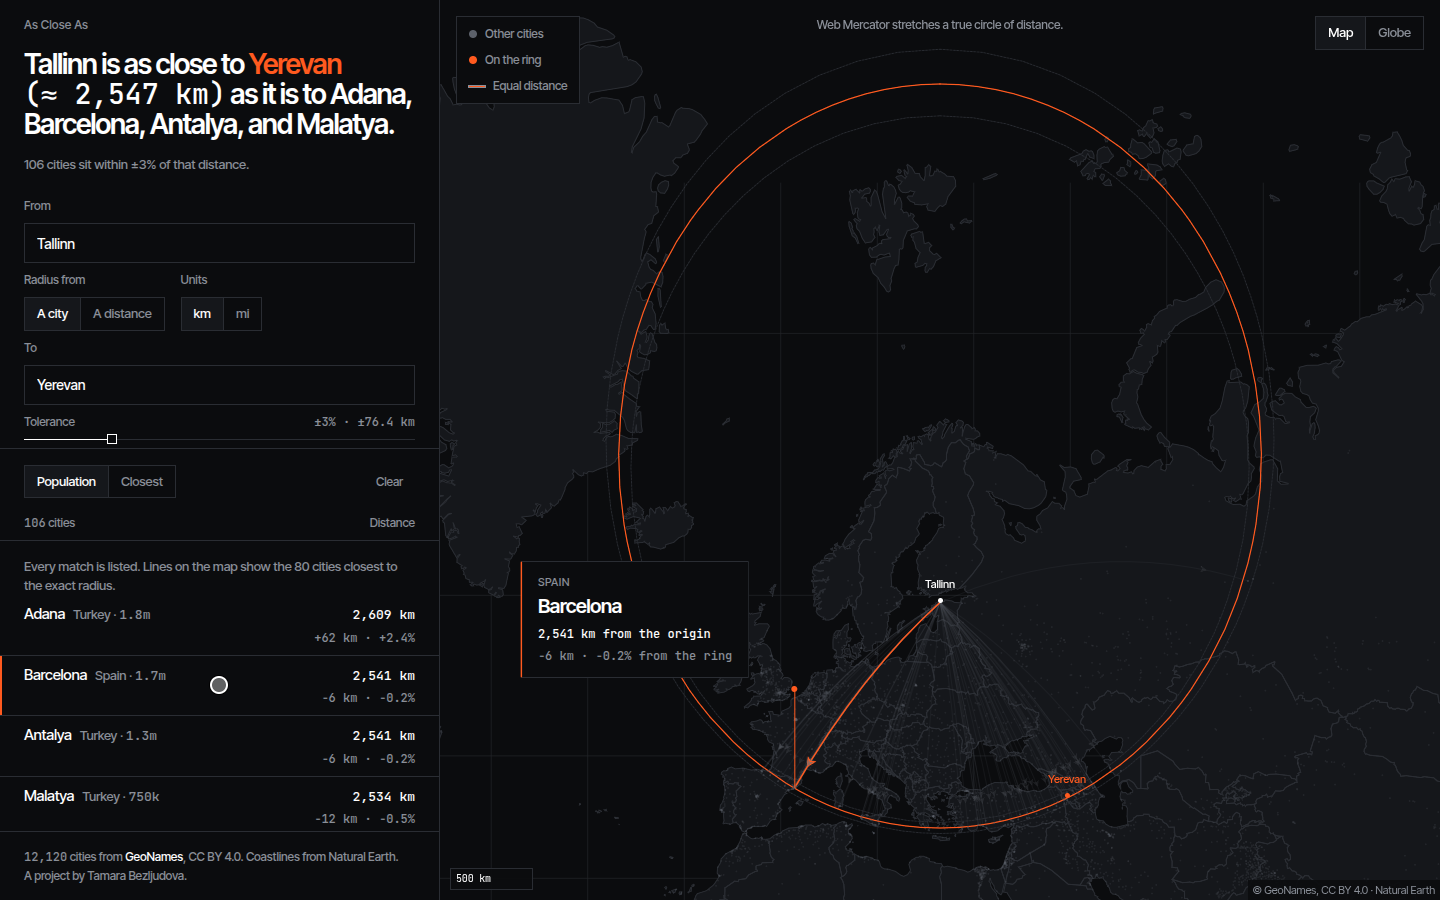
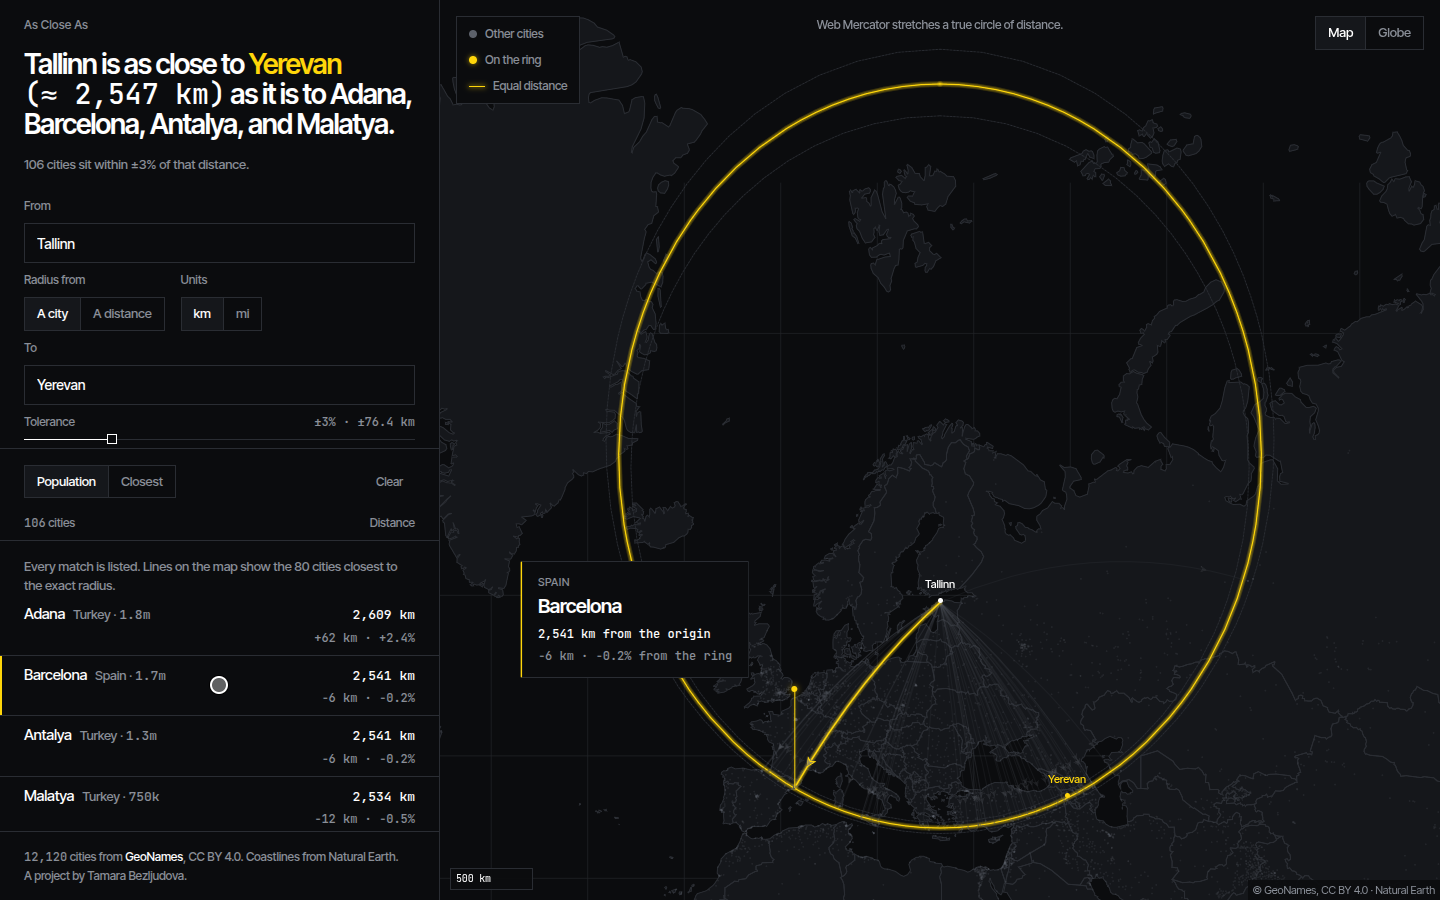
Bring the glow back and switch the highlight to yellow
Lit cities, the ring, and the selected route use a tight yellow halo. The same yellow marks Yerevan and the selected row.

diff --git a/src/index.css b/src/index.css
@@ -11,10 +11,10 @@
   --color-line: #2a2d33;
   --color-field: #0b0c0e;
   --color-land: #15171b;
-  --color-gold: #ff5a1f;
-  --color-gold-2: #ff5a1f;
-  --color-ember: #ff5a1f;
-  --color-accent: #ff5a1f;
+  --color-gold: #ffd60a;
+  --color-gold-2: #ffd60a;
+  --color-ember: #ffd60a;
+  --color-accent: #ffd60a;
 }
 
 html,
@@ -582,16 +582,16 @@ body {
 }
 
 html[data-glow="on"] .rise-orb {
-  box-shadow: 0 0 6px 1px rgba(255, 90, 31, 0.45);
+  box-shadow: 0 0 6px 1px rgba(255, 214, 10, 0.5);
 }
 
 html[data-glow="on"] .rise-stem {
-  box-shadow: 0 0 4px 0 rgba(255, 90, 31, 0.4);
+  box-shadow: 0 0 4px 0 rgba(255, 214, 10, 0.45);
 }
 
 html[data-glow="on"] .swatch.glow,
 html[data-glow="on"] .swatch.ring {
-  box-shadow: 0 0 5px 1px rgba(255, 90, 31, 0.4);
+  box-shadow: 0 0 5px 1px rgba(255, 214, 10, 0.45);
 }
 
 .maplibregl-ctrl-attrib {

diff --git a/src/map/glow.ts b/src/map/glow.ts
@@ -1,19 +1,19 @@
 /**
  * Halo on the ring, the lit cities, and the selected route.
- * Leave this false for solid marks. Set it to true to bring the halo back.
+ * Set this to false for solid marks with no halo.
  */
-export const MAP_GLOW = false;
+export const MAP_GLOW = true;
 
-export const ACCENT = "#FF5A1F";
+export const ACCENT = "#FFD60A";
 
 export const cityHalo = {
-  blur: MAP_GLOW ? 0.55 : 0,
-  radius: MAP_GLOW ? 6.5 : 0,
-  opacity: MAP_GLOW ? 0.3 : 0,
+  blur: MAP_GLOW ? 0.7 : 0,
+  radius: MAP_GLOW ? 8 : 0,
+  opacity: MAP_GLOW ? 0.42 : 0,
 };
 
 export const lineHalo = {
-  blur: MAP_GLOW ? 1 : 0,
-  width: MAP_GLOW ? 4.5 : 0,
-  opacity: MAP_GLOW ? 0.28 : 0,
+  blur: MAP_GLOW ? 1.15 : 0,
+  width: MAP_GLOW ? 6 : 0,
+  opacity: MAP_GLOW ? 0.38 : 0,
 };
